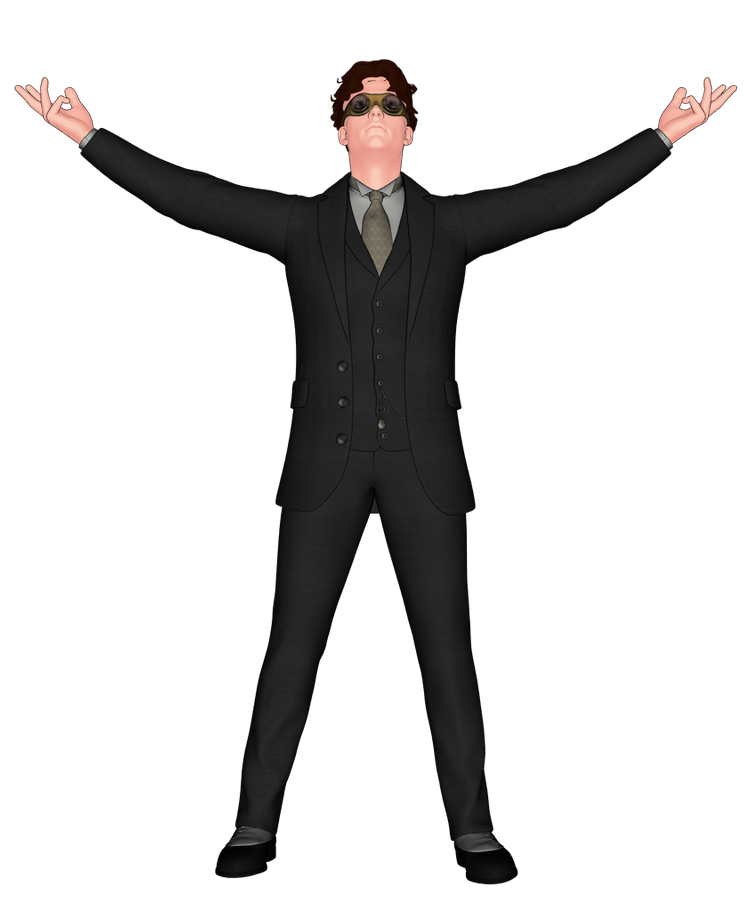
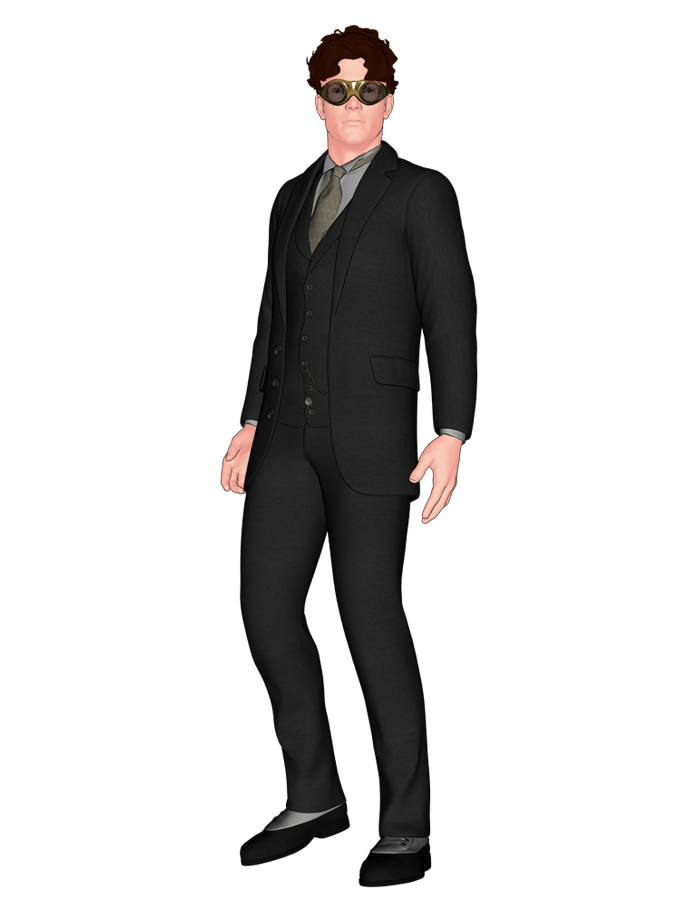
Store animation complete

Changed region(s): [[0.0, 0.0308, 0.9839, 0.9846]]

diff --git a/src/components/Animation.vue b/src/components/Animation.vue
@@ -1,27 +1,59 @@
 // https://css-tricks.com/animate-to-an-inline-style/
-// https://stackoverflow.com/questions/50585880/how-to-play-multiple-animations-back-to-back-in-css
 <template>
   <div>
-    <img v-if="characters[0]" class="character" v-bind:style="{ height: getHeight(0), 'z-index': getZ(0), 'left': getLeft(0), 'opacity': getOpacity(0)}" v-bind:src="characters[0].image">
-    <img v-if="characters[1]" class="character" v-bind:style="{ height: getHeight(1), 'z-index': getZ(1), 'left': getLeft(1), 'opacity': getOpacity(1)}" v-bind:src="characters[1].image">
-    <img v-if="characters[2]" class="character" v-bind:style="{ height: getHeight(2), 'z-index': getZ(2), 'left': getLeft(2), 'opacity': getOpacity(2)}" v-bind:src="characters[2].image">
+    <div>
+      <img v-if="characters[0]" class="animation-character" v-bind:style="{ height: getHeight(0), 'z-index': getZ(0), 'left': getLeft(0), 'opacity': getOpacity(0)}" v-bind:src="characters[0].image">
+      <img v-if="characters[1]" class="animation-character" v-bind:style="{ height: getHeight(1), 'z-index': getZ(1), 'left': getLeft(1), 'opacity': getOpacity(1)}" v-bind:src="characters[1].image">
+      <img v-if="characters[2]" class="animation-character" v-bind:style="{ height: getHeight(2), 'z-index': getZ(2), 'left': getLeft(2), 'opacity': getOpacity(2)}" v-bind:src="characters[2].image">
+    </div>
+    <CharacterInfo v-bind:character="frontCharacter" class="row justify-center animation-character-panel" v-bind:style="{'opacity': infoOpacity}"/>
   </div>
 </template>
 
 <script>
 const animation = require('../data/animation.json')
+import CharacterInfo from './CharacterInfo'
+import Messages from '../util/messages'
+import Queue from '../util/queue'
 export default {
   name: 'Animation',
+  components: {
+    CharacterInfo
+  },
   data: function() {
     return {
-      characters: []
+      characters: [],
+      characterName: '',
+      infoOpacity: 1.0,
+      intervalId: 0
     }
   },
   created () {
     this.characters = animation.characters
-    setInterval(() => { this.animate() }, 5000)
+    this.setName()
+    Queue.register(this, Messages.STORE_BOOK_SELECTED, this.doStoreBookSelected)
+    this.intervalId = setInterval(() => { this.animate() }, 5000)
+  },
+  computed: {
+    frontCharacter () {
+      for (let i = 0; i < this.characters.length; i++) {
+        if ('cf' !== this.characters[i].position) continue
+        return this.characters[i]
+      }
+      return null
+    }
   },
   methods: {
+    animate () {
+      this.infoOpacity = 0.0
+      setTimeout(() => { this.infoOpacity = 1.0 }, 1000)
+      for (let i = 0; i < this.characters.length; i++) {
+        if ('cf' === this.characters[i].position) this.characters[i].position = 'lr'
+        else if ('lr' === this.characters[i].position) this.characters[i].position = 'rr'
+        else if ('rr' === this.characters[i].position) this.characters[i].position = 'cf'
+      }
+      this.setInfo()
+    },
     // mobile, tablet, laptop, and desktop defined in router/index.js
     getHeight (index) {
       let position = this.characters[index].position
@@ -31,13 +63,7 @@ export default {
         if (this.$mq === 'laptop') return '573px'
         if (this.$mq === 'desktop') return '819px'
       }
-      if ('lf' === position || 'rf' === position) {
-        if (this.$mq === 'mobile') return '152px'
-        if (this.$mq === 'tablet') return '305px'
-        if (this.$mq === 'laptop') return '423px'
-        if (this.$mq === 'desktop') return '637px'
-      }
-      if ('cr' === position || 'lr' === position || 'rr' === position) {
+      if ('lr' === position || 'rr' === position) {
         if (this.$mq === 'mobile') return '98px'
         if (this.$mq === 'tablet') return '197px'
         if (this.$mq === 'laptop') return '273px'
@@ -45,41 +71,57 @@ export default {
       }
       return 0 // Should never happen
     },
-    getZ (index) {
-      let position = this.characters[index].position
-      if ('cf' === position || 'lf' === position || 'rf' === position) return 10
-      return 5
-    },
     getLeft (index) {
       let position = this.characters[index].position
-      if ('cf' === position || 'cr' === position) return '40%'
-      if ('lf' === position) return '-40%'
-      if ('rf' === position) return '95%'
-      if ('rr' === position) return '75%'
+      if ('cf' === position) return '30%'
+      if ('rr' === position) return '80%'
       if ('lr' === position) return '10px'
       return 0 // should never happen
     },
+    getName() {
+      return this.characterName
+    },
     getOpacity (index) {
       let position = this.characters[index].position
-      if ('cf' === position || 'lf' === position || 'rf' === position) return 1.0
-      if ('cr' === position || 'lr' === position || 'rr' === position) return 0.5
+      if ('cf' === position) return 1.0
+      if ('lr' === position || 'rr' === position) return 0.5
       return 0 // should never happen
     },
-    animate () {
-      for (let i = 0; i < this.characters.length; i++) {
-        if ('cf' === this.characters[i].position) this.characters[i].position = 'lr'
-        else if ('lr' === this.characters[i].position) this.characters[i].position = 'rr'
-        else if ('rr' === this.characters[i].position) this.characters[i].position = 'cf'
-      }
+    getZ (index) {
+      let position = this.characters[index].position
+      if ('cf' === position) return 10
+      return 5
+    },
+    doStoreBookSelected(book) {
+      let pages = [ book.cover ]
+      pages = pages.concat(book.preview)
+      pages = pages.concat('EndofPreview.jpg')
+      let preview = { id: book.id, issue: book.issue, pages: pages }
+      clearInterval(this.intervalId)
+      this.$store.commit('main/SET_CURRENT_BOOK', preview)
+      if (this.$route.path !== '/reader') this.$router.push({ path: '/reader' }).catch(() => {})
+    },
+    setInfo() {
+      this.infoOpacity = 1.0
+    },
+    setName () {
+      this.characterName = this.frontCharacter.name
     }
   }
 }
 </script>
-<style>
-.character {
+<style scoped>
+.animation-character {
   position: absolute;
   top: 0%;
   width: auto;
   transition: z-index 2s linear, left 2s linear, height 2s linear, opacity 2s linear;
+}
+.animation-character-panel {
+  position: absolute;
+  left: 1px;
+  width: 98%;
+  z-index: 15;
+  margin: 1%;
 }
 </style>

diff --git a/src/components/CharacterInfo.vue b/src/components/CharacterInfo.vue
@@ -1,0 +1,122 @@
+<template>
+  <div>
+    <div class="character-info">
+      <div>
+        <div class="character-name">{{getName()}}</div>
+        <div class="row cover-gallery">
+          <div class="row appearances justify-center" clickable v-ripple v-on:click="clicked(item)" v-for="(item, index) in character.appearances" v-bind:key="index">
+            <div class="column justify-center">
+              <img class="thumbnail-image self-center" v-bind:src="getURL(item)" />
+              <div class="thumbnail-item-description">
+                <div>{{getTitle(item)}} #{{item.issue}}</div>
+              </div>
+            </div>
+          </div>
+        </div>
+      </div>
+    </div>
+  </div>
+</template>
+
+<script>
+import Issue from '../data/issue'
+import Messages from '../util/messages'
+import Queue from '../util/queue'
+export default {
+  name: 'CharacterInfo',
+  props: {
+    character: null
+  },
+  methods: {
+    clicked (item) {
+      let book = this.getBook(item)
+      this.$store.commit('main/SET_READER_STATE', this.readerState)
+      Queue.broadcast(Messages.STORE_BOOK_SELECTED, book)
+    },
+    getBook(item) {
+      if (!this.$store.state.main.bookInfo) return
+      return Issue.getBook(this.$store.state.main.bookInfo, item.id, item.issue)
+    },
+    getName() {
+      return this.character.name
+    },
+    getTitle (item) {
+      let book = this.getBook(item)
+      if (!book) return
+      return this.getBook(item).title
+    },
+    getURL (item) {
+      let book = this.getBook(item)
+      if (!book) return
+      return this.$store.state.main.urlBase + 'comics/' + item.id + '/' + item.issue + '/' + book.cover
+    }
+  }
+}
+</script>
+<style scoped>
+.character-info {
+  width: 99%;
+  border: 1px solid #073d6d;
+  background-color: #FFFFFF77;
+}
+.character-name {
+  font-size: x-large;
+  color: #073d6d;
+  text-align: center;
+  background-color: white;
+  opacity: 0.66;
+}
+.cover-gallery {
+  width: 100%;
+}
+.thumbnail-item-description {
+  font-size: medium;
+  width: 66%;
+  text-align: center;
+}
+.thumbnail-image {
+  width: 77px;
+  height: 100px;
+  border: 3px;
+  background-color: #073d6d;
+  border-color: #073d6d;
+  border-style: solid;
+}
+.appearances {
+  width: 25%;
+}
+@media only screen and (max-width: 450px) {
+.character-info {
+  width: 95%;
+  border: 1px solid #073d6d;
+  background-color: #FFFFFF77;
+}
+.character-name {
+  font-size: small;
+  color: #073d6d;
+  text-align: center;
+  background-color: white;
+  opacity: 0.66;
+}
+.cover-gallery {
+  width: 97%;
+}
+.thumbnail-item-description {
+  font-size: xx-small;
+  width: 90%;
+}
+.thumbnail-image {
+  width: 62px;
+  height: 80px;
+  border: 1px;
+  background-color: #073d6d;
+  border-color: #073d6d;
+  border-style: solid;
+}
+.cover-gallery {
+  width: 100%;
+  height: 50%;
+  overflow: auto;
+}
+}
+</style>

diff --git a/src/pages/Reader.vue b/src/pages/Reader.vue
@@ -4,7 +4,7 @@
 // https://dev.to/samolabams/understanding-vuejs-lifecycle-hooks-5ejk
 <template>
   <q-page class="flex flex-center">
-    <canvas id="page-canvas" class="page" width="1275" height="1650"/>
+    <canvas id="page-canvas" class="reader-page" width="1275" height="1650"/>
     <ReaderNavBar v-if="navBarVisible" class="reader-nav-bar"/>
   </q-page>
 </template>
@@ -167,7 +167,7 @@ export default {
   align-items: center;
   justify-content: center;
 }
-.page {
+.reader-page {
   height: 98%;
   width: 77vh;
   margin: 1%;
@@ -180,8 +180,8 @@ export default {
   background-color: #073D6D;
   opacity: 0.9;
 }
-@media only screen and (max-width: 420px) {
-  .page {
+@media only screen and (max-width: 450px) {
+  .reader-page {
   height: 120vw;
   width: 98%;
   margin: 1%;

diff --git a/src/components/ItemList.vue b/src/components/ItemList.vue
@@ -91,7 +91,7 @@ export default {
   display: flex;
   align-items: flex-start;
   justify-content: flex-start;
-  flex-direction: column;
+  flex-direction: row;
   font-weight: bold;
   width: 120px;
 }
